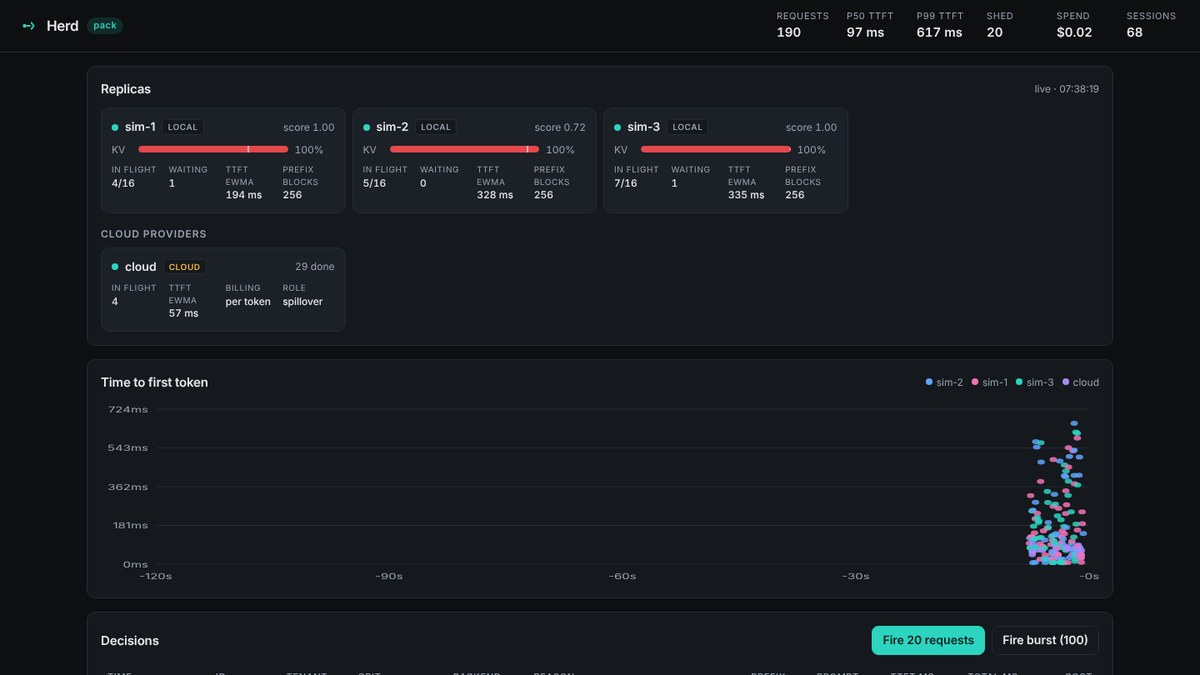
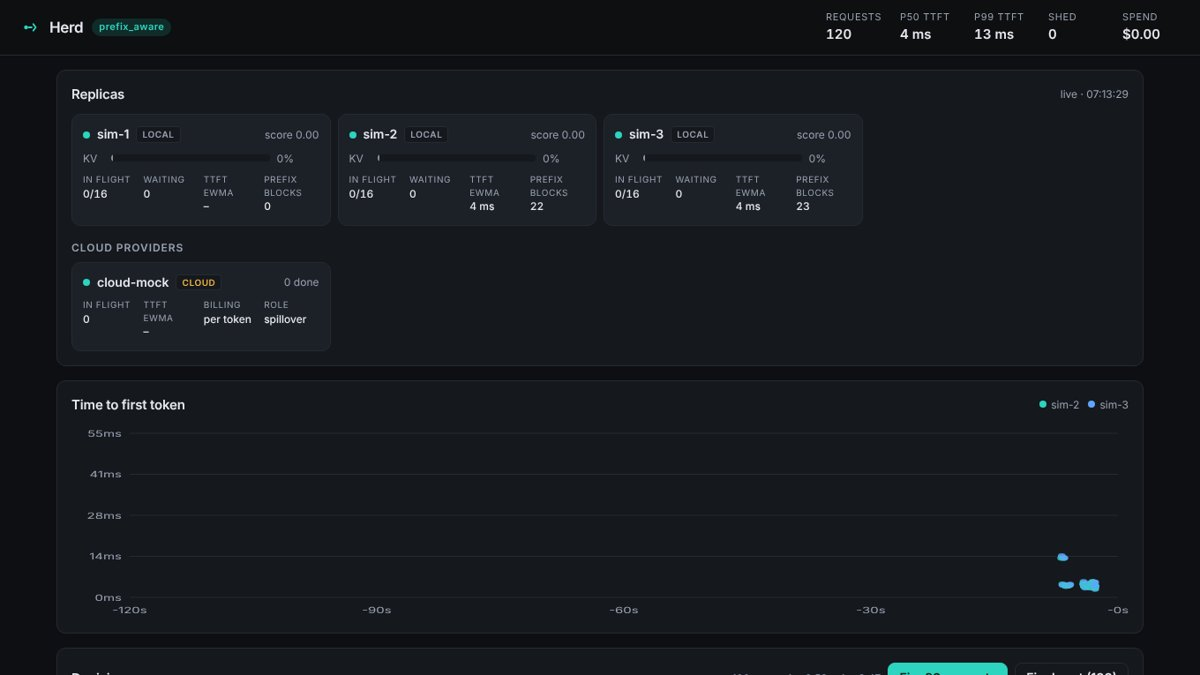
Revert "New Herd dashboard screenshot"
This reverts commit a74bac09e651c828c17a462cc37bb8253c64201f.

diff --git a/index.html b/index.html
@@ -118,7 +118,7 @@
 <section id="herd" class="screen project">
   <div class="wrap grid">
     <div class="shot" data-live-herd>
-      <img src="assets/herd.jpg?v=2" alt="Herd routing dashboard under agent load" loading="lazy" width="1200" height="675">
+      <img src="assets/herd.jpg" alt="Herd routing dashboard" loading="lazy" width="1200" height="675">
     </div>
     <div class="info">
     <p class="eyebrow" data-rv><i>02</i>Projects · 1 of 3</p>
